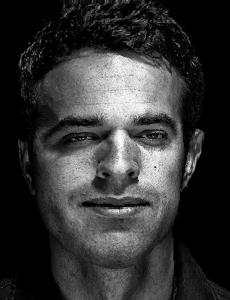
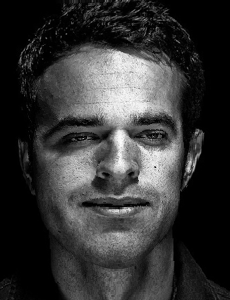
Add high boost filtering

Changed region(s): [[0.0609, 0.0, 0.8826, 0.39], [0.7609, 0.36, 0.7913, 0.39]]

diff --git a/Code/styletransfer.m b/Code/styletransfer.m
@@ -2,9 +2,10 @@ levels = 18;
 compute_masks = 1;
 addpath('./grabcut-master');
 addpath('./grabcut-master/bin_graphcuts');
-img_orig = imread('Inputs/face36.png');
-img_style = imread('Inputs/final36_42.png');
+img_orig = imread('Inputs/face16.png');
+img_style = imread('Inputs/final16_19.png');
 img_orig = imresize(img_orig, [300 230]);
+img_orig_old = img_orig;
 img_style = imresize(img_style, [300 230]);
 
 % Add a small noise so that patches of same color don't cause issues in
@@ -14,7 +15,7 @@ img_style = min(img_style, 255);
 img_orig = img_orig + uint8(rand(size(img_orig))*5);
 img_orig = min(img_orig, 255);
 
-figure, imshow(imresize(imread('Inputs/face42.png'), [300 230]));
+figure, imshow(imresize(imread('Inputs/face19.png'), [300 230]));
 figure, imshow(img_orig);
 figure, imshow(img_style);
 
@@ -97,4 +98,12 @@ final_img(:,:,1) = final_img(:,:,1).*orig_mask + background_img(:,:,1).*(1-orig_
 final_img(:,:,2) = final_img(:,:,2).*orig_mask + background_img(:,:,2).*(1-orig_mask);
 final_img(:,:,3) = final_img(:,:,3).*orig_mask + background_img(:,:,3).*(1-orig_mask);
 
-figure, imshow(uint8(final_img * 255.0));
+final_img = uint8(final_img * 255.0);
+
+figure, imshow(final_img);
+
+% High boost filtering
+gauss_fin_img = imfilter(final_img, fspecial('gaussian', 3, 3));
+final_img = final_img + (final_img-gauss_fin_img)*1;
+
+figure, imshow(final_img);

diff --git a/Code/Face_Morph/aasthana_cvpr2013_code_version_2.0/align.m b/Code/Face_Morph/aasthana_cvpr2013_code_version_2.0/align.m
@@ -1,8 +1,8 @@
-p1 = detect('../../Inputs/face36.png', 0); % Content image
-p2 = detect('../../Inputs/face34.png', 0); % Style image
+p1 = detect('../../Inputs/face16.png', 0); % Content image
+p2 = detect('../../Inputs/face24.png', 0); % Style image
 
-img1 = imresize(imread('../../Inputs/face36.png'), [300 230]);
-img2 = imresize(imread('../../Inputs/face34.png'), [300 230]);
+img1 = imresize(imread('../../Inputs/face16.png'), [300 230]);
+img2 = imresize(imread('../../Inputs/face24.png'), [300 230]);
 
 figure, imshow(img1);
 figure, imshow(img2);
